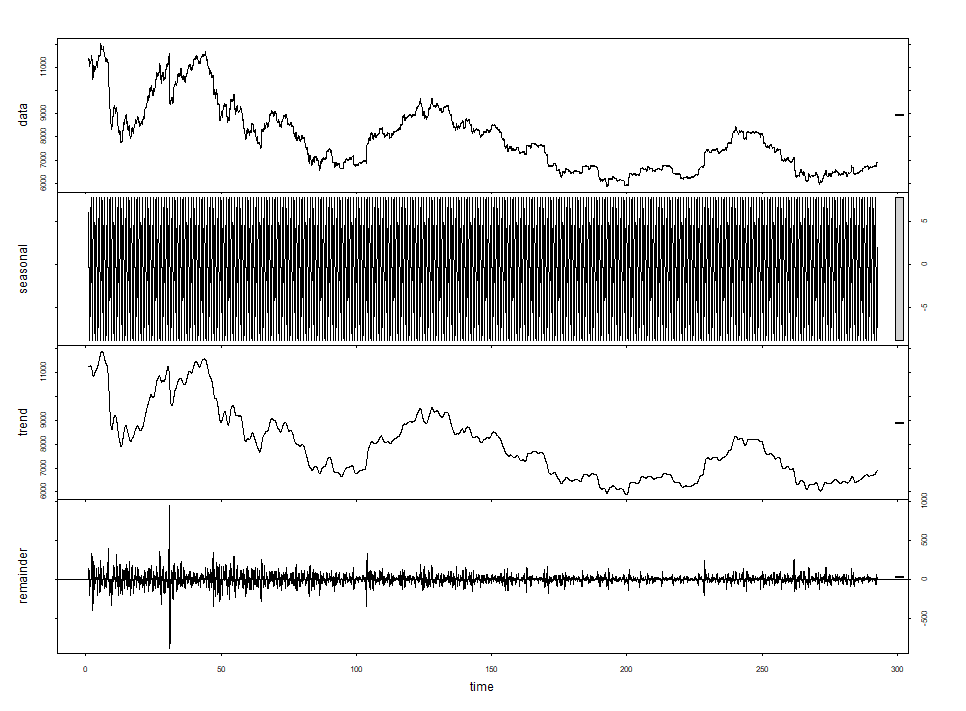
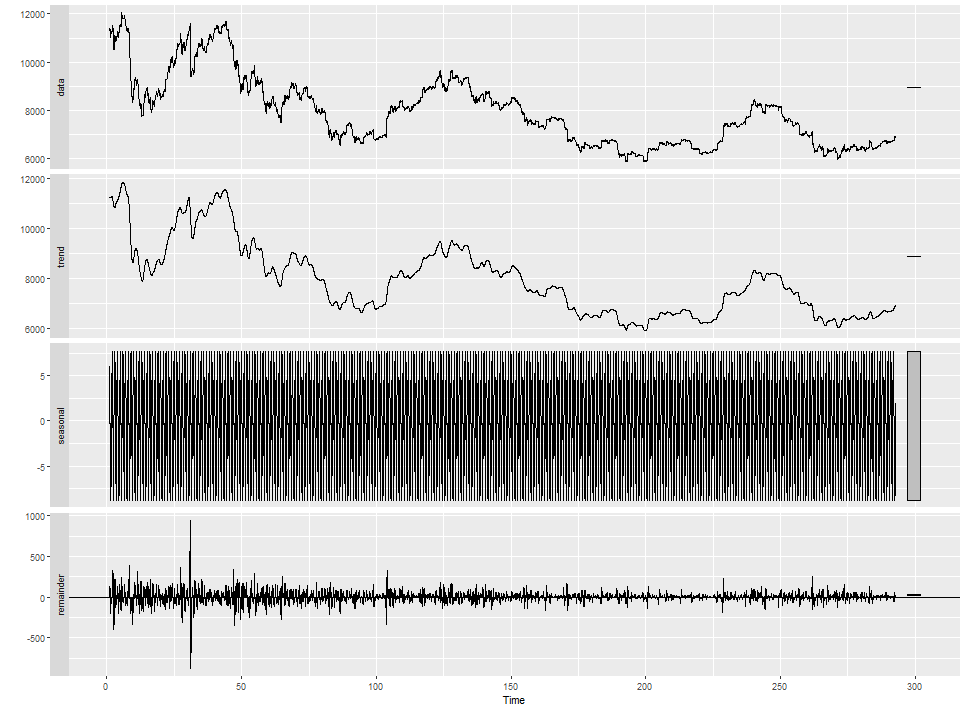
통계 분석 ARIMA model update

diff --git a/Meeting_minutes/AI_Team/AI_model_Research(Statistics).md b/Meeting_minutes/AI_Team/AI_model_Research(Statistics).md
@@ -2,6 +2,9 @@
 분석에는 R의 forecast package가 사용되었다.  
 
 ## BTC price data를 자세히 살펴보자.  
+![alt_text](./Images/TimeSeries.png)
+
+
 시계열 데이터의 계절성 Seasonality, 추세 Trend, 무작위성 random을 요소 분해를 하면 다음과 같다.  
 ![alt_text](./Images/Decomposed_series.png) 
 
@@ -16,21 +19,42 @@ Stationary로 볼 수 있다.
 
 
 ## auto.arima 결과  
-Series: BTC_USD   
-ARIMA(2,1,2)   
+  
+Series: Deseasonal   
+ARIMA(2,1,2)(2,0,1)[30] with drift 
+
+Coefficients:
+|       |    ar1   |   ar2  |   ma1   |   ma2   |  sar1 |    sar2 |   sma1 |   drift |
+| ----- | -------- | ------ | ------- | ------- | ----- | ------- | ------ | ----- |
+|       |  1.3215  | -0.5176|  0.5384 | -0.4185 | -0.1080| -0.0062| 0.1241 |  -0.4895 |
+| s.e.  |  0.0244  | 0.0183 | 0.0260  | 0.0253  | 0.6979 |  0.0180|  0.6978|   0.5812 |
+
+sigma^2 estimated as 89.11:  log likelihood=-32053.16  
+AIC=64124.32  
+AICc=64124.34   
+BIC=64188.01
+
+## Fit to ARIMA model
+Call:  
+arima(x = Deseasonal, order = c(2, 1, 2))
+
 Coefficients:  
-|   |  ar1   |   ar2  |   ma1 |  ma2   |
-| --| ------ | ------ | ----- | ------ |
-|   | 0.9909 | -0.7735|  -0.9433|  0.7374|
-|s.e.|  0.0733|   0.0913|   0.0803|  0.0966|
+|    |  ar1  |    ar2 |  ma1  |    ma2 |
+| -- | ----- | ------ | ----- | ------ |
+| -- | 1.3221| -0.5177| 0.5378| -0.4187|
+|s.e.| 0.0244|  0.0184| 0.0260|  0.0253|  
 
-sigma^2  estimated as 3564:  log likelihood=-48211.66  
-AIC=96433.31    AICc=96433.32    BIC=96468.7   
 
-결정된 3 파라미터  
-| AR(p)  | MA(q) |  I(d) |
-| ------ | ----- | ----- |
-| p -> 2 | q -> 1| d -> 2|
+sigma^2 estimated as 89.05:   
+log likelihood = -32054.93,   
+aic = 64119.87
 
-![alt_text](./Images/auto_arima.png)  
+## 예측 가격  
+|예측가격 | 하한(80%신뢰구간)| 상한(80%신뢰구간)| 하한(95%신뢰구간)| 하한(95%신뢰구간)|
+| ------ | ----------------| --------------- | --------------- | --------- |
+| 6909.450| 6792.012       | 7026.888        | 6729.843        | 7089.057  |
+
+![alt_text](./Images/Arima_forecast.png)
+
+
 
